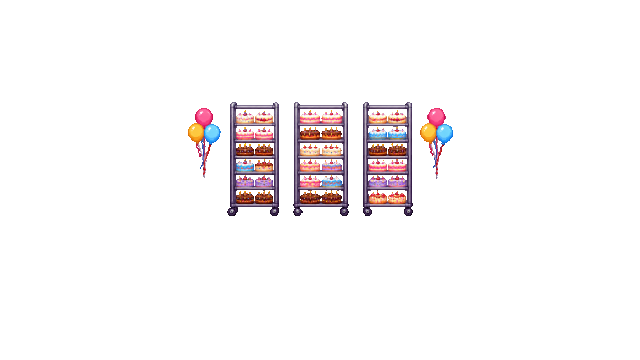
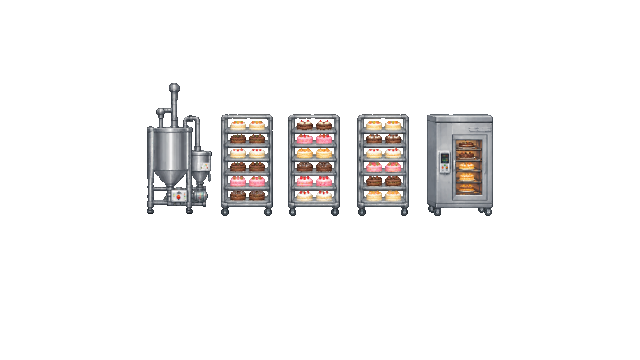
Bakery world: bright daytime factory colours (Sandro)
Claude-Session: https://claude.ai/code/session_01QtD76jZP7ynNj9DKqbs7sk

Changed region(s): [[0.2188, 0.2139, 0.7812, 0.6111]]

diff --git a/src/levels/worlds/bakery.js b/src/levels/worlds/bakery.js
@@ -1,8 +1,8 @@
 // WORLD: BAKERY, steve-aoki's world: the cake factory: bakery racks, a cake production line, conveyor belts and robot arms (levels-input/steve-aoki/world 01-05).
 // Looks only. Gameplay files (src/levels/gameplay/) name this world but never change it.
 // Art: made in Higgsfield (pictures in project files art/worlds/bakery/), shrunk into
-// src/art/world/bakery/ with `python3 tools/hf_world.py <dir> bakery far=0.55,0.6,0.5 mid=1,0.68,0.5
-// near=1,0.765,0.5 seam=mid:mirror seam=near:mirror dim=near:0.7`; the 'layers' builder in src/art/background.js puts them together.
+// src/art/world/bakery/ with `python3 tools/hf_world.py <dir> bakery far=0.65,0.6,0.5 mid=1,0.745,0.5
+// near=1,0.8,0.5 seam=mid:mirror dim=near:0.85`; the 'layers' builder in src/art/background.js puts them together.
 export default {
   id: 'bakery',
   name: 'BAKERY', // top bar
@@ -14,10 +14,10 @@ export default {
   tiles: 'tiles', // tileset (src/art/world/tiles.png, shared for now)
   pit: 'black',
   layers: [
-    'sky: the factory hall at night, tall windows, roof trusses, party spotlights and bunting (fixed)',
-    'far: three racks of birthday cakes with balloons (0.05)',
-    'mid: a conveyor belt of cakes with two orange robot arms (0.15)',
-    'near: bakers at work tables, flour sacks and tray trolleys; no crowd (0.35)',
+    'sky: a bright, clean factory hall by day: white and mint tiles, big windows, steel ducts and lamps (fixed; Sandro: no night or party colours here)',
+    'far: a steel mixing tank, three racks of cakes and an oven (0.05)',
+    'mid: a steel conveyor belt of cakes with two orange robot arms (0.15)',
+    'near: bakers at steel work tables with bowls and cakes; no crowd (0.35)',
   ],
   motifs: ['conveyor belts as long platforms', 'stacked trays as stairs', 'cakes (boss)'],
 };
